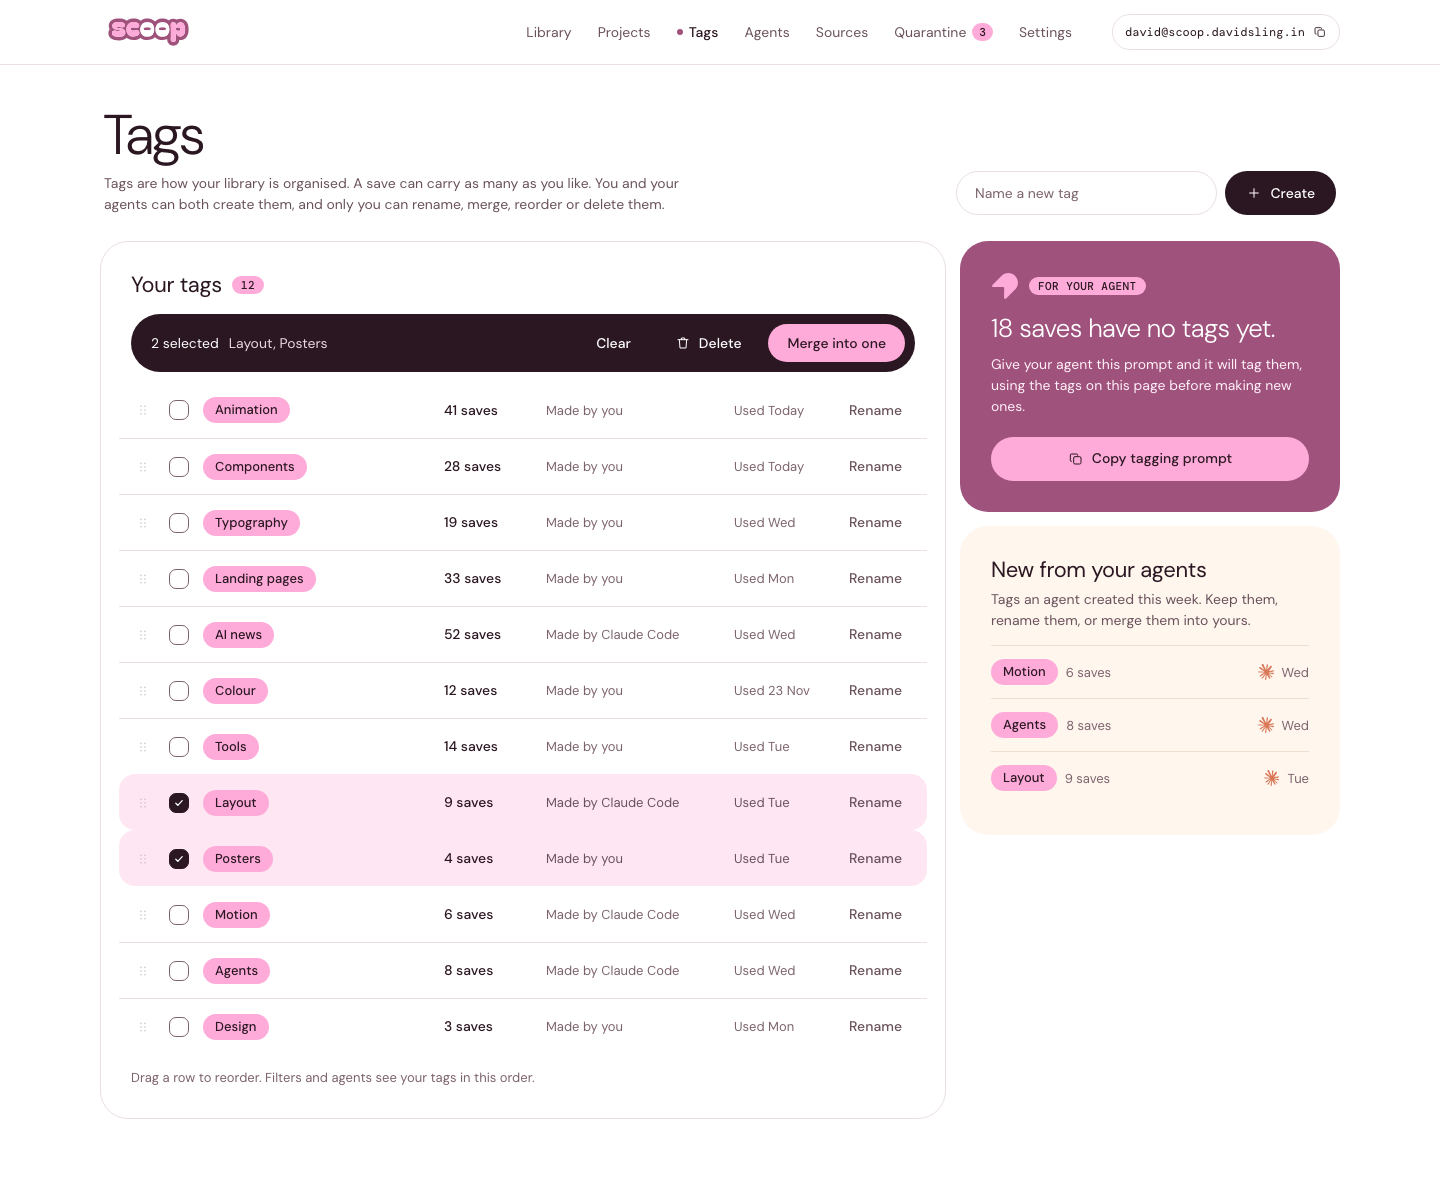
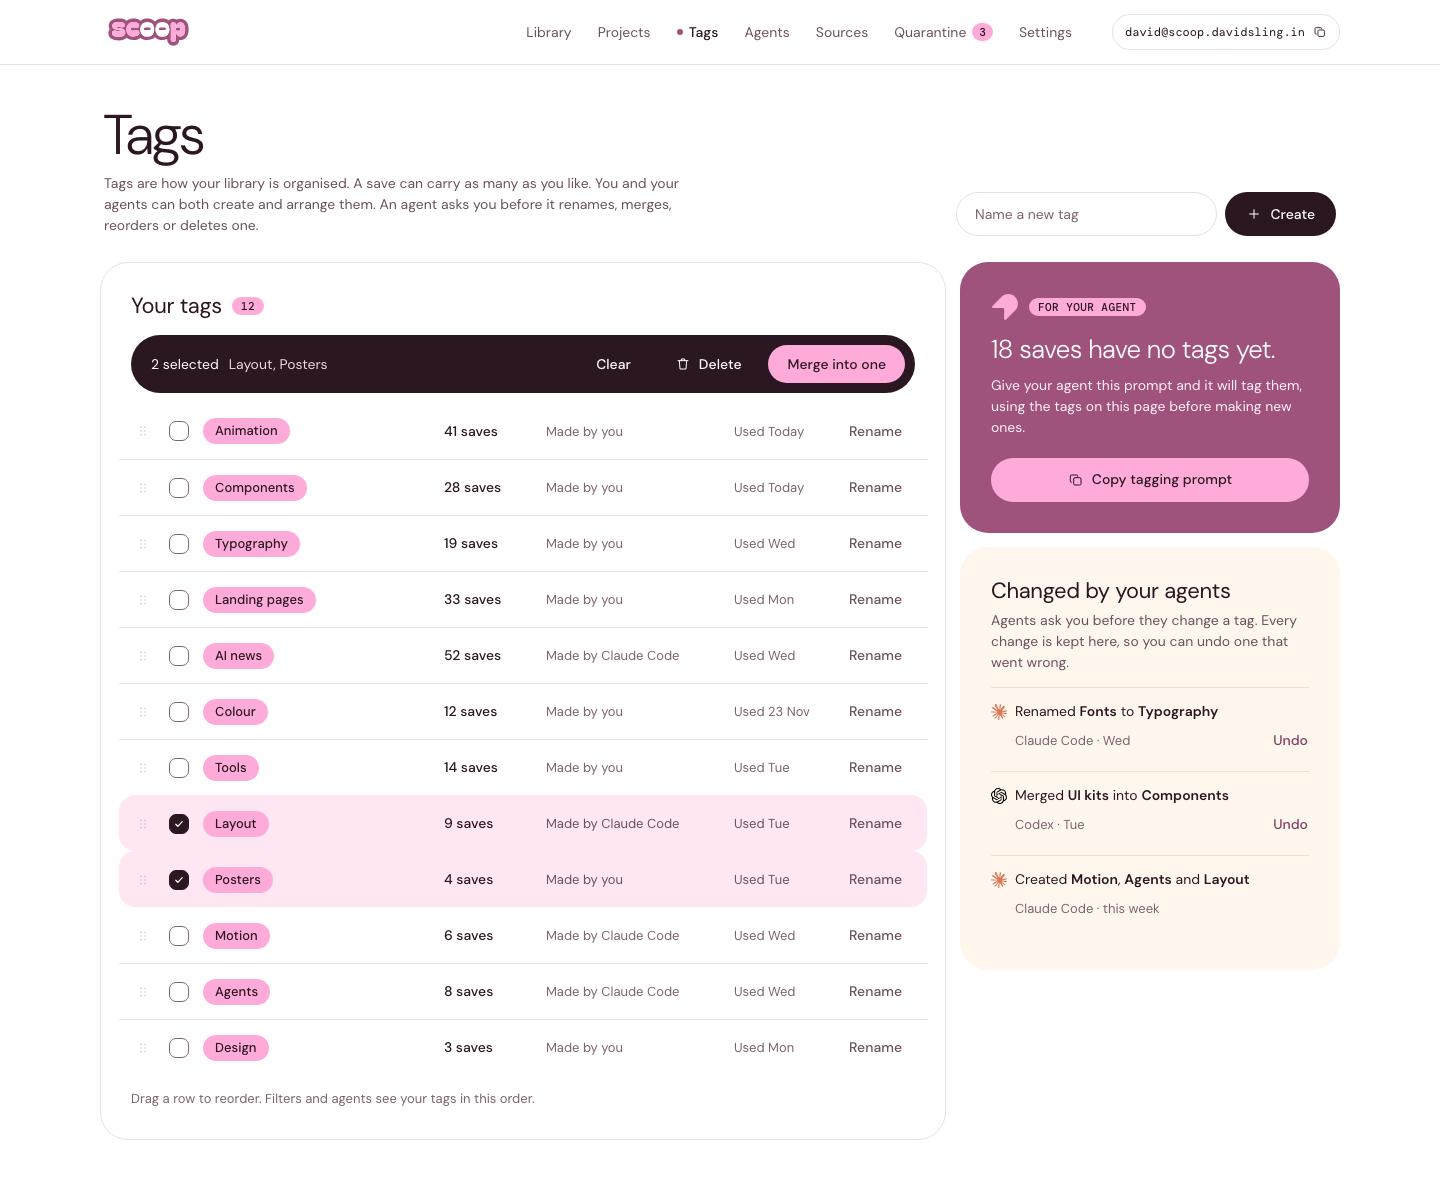
feat: let agents arrange tags, with undo in the dashboard
Agents may rename, merge, reorder and delete tags after asking the
person. Every such change is kept and can be undone on the Tags page.

diff --git a/mockups/tags.html b/mockups/tags.html
@@ -55,7 +55,10 @@
 .review .r1 { display: flex; align-items: center; gap: 8px; }
 .review .r1 img.b { width: 16px; height: 16px; margin-left: auto; }
 .review .r1 span.w { font-size: 13px; color: var(--ink-3); }
-.review p { margin: 6px 0 0; color: var(--ink-2); }
+.review b { font-weight: 600; }
+.review .r2 { display: flex; align-items: center; justify-content: space-between; min-height: 36px; padding-left: 24px; }
+.review .r2 .w { font-size: 13px; color: var(--ink-3); }
+.review .r2 .btn { min-height: 32px; margin-right: -12px; color: var(--mauve-deep); font-weight: 500; }
 @media (max-width: 900px) { .taglist li { grid-template-columns: 24px 24px minmax(0, 1fr) auto auto; } .taglist .by, .taglist .last { display: none; } .phd { flex-direction: column; align-items: flex-start; } .phd h1 { font-size: 40px; } .bar { flex-wrap: wrap; border-radius: 22px; } }
 </style>
 </head>
@@ -109,7 +112,7 @@
   <div class="phd">
     <div>
       <h1>Tags</h1>
-      <p>Tags are how your library is organised. A save can carry as many as you like. You and your agents can both create them, and only you can rename, merge, reorder or delete them.</p>
+      <p>Tags are how your library is organised. A save can carry as many as you like. You and your agents can both create and arrange them. An agent asks you before it renames, merges, reorders or deletes one.</p>
     </div>
     <form class="newtagform" onsubmit="return false">
       <label class="sr" for="nt">New tag</label>
@@ -253,12 +256,12 @@
       </section>
 
       <section class="tile cream">
-        <div class="hd"><h2>New from your agents</h2></div>
-        <p class="sub" style="margin-bottom:0">Tags an agent created this week. Keep them, rename them, or merge them into yours.</p>
+        <div class="hd"><h2>Changed by your agents</h2></div>
+        <p class="sub" style="margin-bottom:0">Agents ask you before they change a tag. Every change is kept here, so you can undo one that went wrong.</p>
         <ul class="review">
-          <li><div class="r1"><span class="chip">Motion</span><span class="w">6 saves</span><img class="b" src="icons/claude.svg" alt=""><span class="w">Wed</span></div></li>
-          <li><div class="r1"><span class="chip">Agents</span><span class="w">8 saves</span><img class="b" src="icons/claude.svg" alt=""><span class="w">Wed</span></div></li>
-          <li><div class="r1"><span class="chip">Layout</span><span class="w">9 saves</span><img class="b" src="icons/claude.svg" alt=""><span class="w">Tue</span></div></li>
+          <li><div class="r1"><img class="b" src="icons/claude.svg" alt="" style="margin-left:0"><span>Renamed <b>Fonts</b> to <b>Typography</b></span></div><div class="r2"><span class="w">Claude Code · Wed</span><button class="btn text" type="button">Undo</button></div></li>
+          <li><div class="r1"><img class="b" src="icons/openai.svg" alt="" style="margin-left:0"><span>Merged <b>UI kits</b> into <b>Components</b></span></div><div class="r2"><span class="w">Codex · Tue</span><button class="btn text" type="button">Undo</button></div></li>
+          <li><div class="r1"><img class="b" src="icons/claude.svg" alt="" style="margin-left:0"><span>Created <b>Motion</b>, <b>Agents</b> and <b>Layout</b></span></div><div class="r2"><span class="w">Claude Code · this week</span></div></li>
         </ul>
       </section>
       </div>

diff --git a/mockups/agents.html b/mockups/agents.html
@@ -168,12 +168,13 @@
           <ul class="rules">
             <li class="yes"><svg class="i"><use href="#i-check"/></svg>Search and read your saves</li>
             <li class="yes"><svg class="i"><use href="#i-check"/></svg>Add and remove tags, and create new ones</li>
+            <li class="yes"><svg class="i"><use href="#i-check"/></svg>Rename, merge, reorder or delete a tag, after asking you</li>
             <li class="yes"><svg class="i"><use href="#i-check"/></svg>Add saves to a project, and report how it used them</li>
           </ul>
         </div>
         <div class="split">
           <ul class="rules">
-            <li class="no"><svg class="i"><use href="#i-x"/></svg>Delete anything, or rename and merge tags or projects</li>
+            <li class="no"><svg class="i"><use href="#i-x"/></svg>Delete a save, or rename and merge projects</li>
             <li class="no"><svg class="i"><use href="#i-x"/></svg>Use a tool you did not add to the project yourself</li>
             <li class="no"><svg class="i"><use href="#i-x"/></svg>Send, post or pay for anything</li>
           </ul>

diff --git a/PLAN.md b/PLAN.md
@@ -111,6 +111,7 @@ All the thinking happens in the agent. Scoop only stores what the agent writes b
 | List untagged saves | Everything arrives untagged. This is how an agent finds what still needs tagging. |
 | List the existing tags | So it reuses your tags before inventing new ones. |
 | Add or remove tags on a save, and create a new tag | A save can carry several tags. Scoop records who added each one and when. |
+| Rename, merge, reorder or delete a tag | Only after asking the person. The tool's own description tells the agent to ask first, and Scoop records the change so it can be undone. |
 | Set a kind and a short description on a save | Scoop records which agent wrote them. |
 | Search by text, tag, kind, source and date | The main call when a project starts. Search runs over titles, extracted text, your notes and what agents wrote. |
 | Read one save with everything attached | The original, extracted text, your note, and agent-written fields, each marked with where it came from. |
@@ -139,7 +140,8 @@ Tags are how the library is organised. They are called tags, not categories, bec
 - **Many tags per save.** A post about a drag animation in a component library can be tagged both "animation" and "components".
 - **Anyone can create a tag.** An agent creates one over MCP when no existing tag fits. The person creates one in the dashboard at any time, including before anything uses it.
 - **The person can tag by hand.** They can add or remove tags on any save without an agent.
-- **The person arranges the tags.** They can rename, merge, reorder and delete tags in the dashboard. An agent can add and remove tags on saves, but it cannot rename, merge or delete a tag.
+- **The person and their agents arrange the tags.** Both can rename, merge, reorder and delete tags. The person does it in the dashboard. An agent does it over MCP, and is instructed to ask the person for permission first. Changed by David on Nov 26, 2026.
+- **The instruction is not a lock.** Scoop cannot check that an agent really asked. So every tag change an agent makes is recorded with what it was before, and the person can undo it from the Tags page. Undo in the dashboard is the safeguard, and David confirmed it is enough on Nov 26, 2026.
 - **Every tag on a save shows who added it:** the person, or a named agent.
 - **Scoop never tags anything itself.** A save stays untagged until an agent or the person tags it.
 
@@ -286,6 +288,7 @@ Five phases, each usable on its own. No dates are set yet.
 - [ ] Whether the person chooses the kind (reference, MCP or skill) when saving, or an agent sets it later.
 - [ ] Whether an agent may remove a save from a project that the person added.
 - [ ] Whether finished projects are archived or kept in the main list.
+- [ ] Whether agents may also rename and merge projects after asking, as they now can with tags.
 - [ ] Whether tags can be nested, or stay as one flat list.
 - [ ] Whether a person can lock a tag on a save so agents cannot remove it.
 - [ ] Whether third-party processors may use AI, given that Scoop's own do not.

diff --git a/PRODUCT.md b/PRODUCT.md
@@ -36,7 +36,7 @@ Bookmarking and read-later apps are built for a person to browse. In Scoop the m
 
 - Every source produces one item shape: source, sender, time, original content, tags and notes.
 - Scoop runs no AI of its own. It does not tag, summarise, transcribe or search by meaning. Confirmed by David on Nov 26, 2026.
-- Every save arrives untagged. It stays that way until an agent or the person tags it. A save can carry several tags. Agents and the person can both create tags, and the person can rename, merge, reorder and delete them in the dashboard. Scoop records who added each tag. The word is "tags", never "categories" or "classes". Confirmed by David on Nov 26, 2026.
+- Every save arrives untagged. It stays that way until an agent or the person tags it. A save can carry several tags. Agents and the person can both create, rename, merge, reorder and delete tags. An agent is instructed to ask the person for permission before it renames, merges, reorders or deletes. Scoop cannot enforce that, so every tag change by an agent can be undone in the dashboard. Confirmed by David on Nov 26, 2026. Scoop records who added each tag. The word is "tags", never "categories" or "classes". Confirmed by David on Nov 26, 2026.
 - Originals never change. Extracted text, existing captions and agent-written fields are added beside the original.
 - Each agent has a cursor that records where it stopped reading. This matters less for a library than it did for an inbox.
 - Tags and notes written by an agent or the person persist between sessions.
